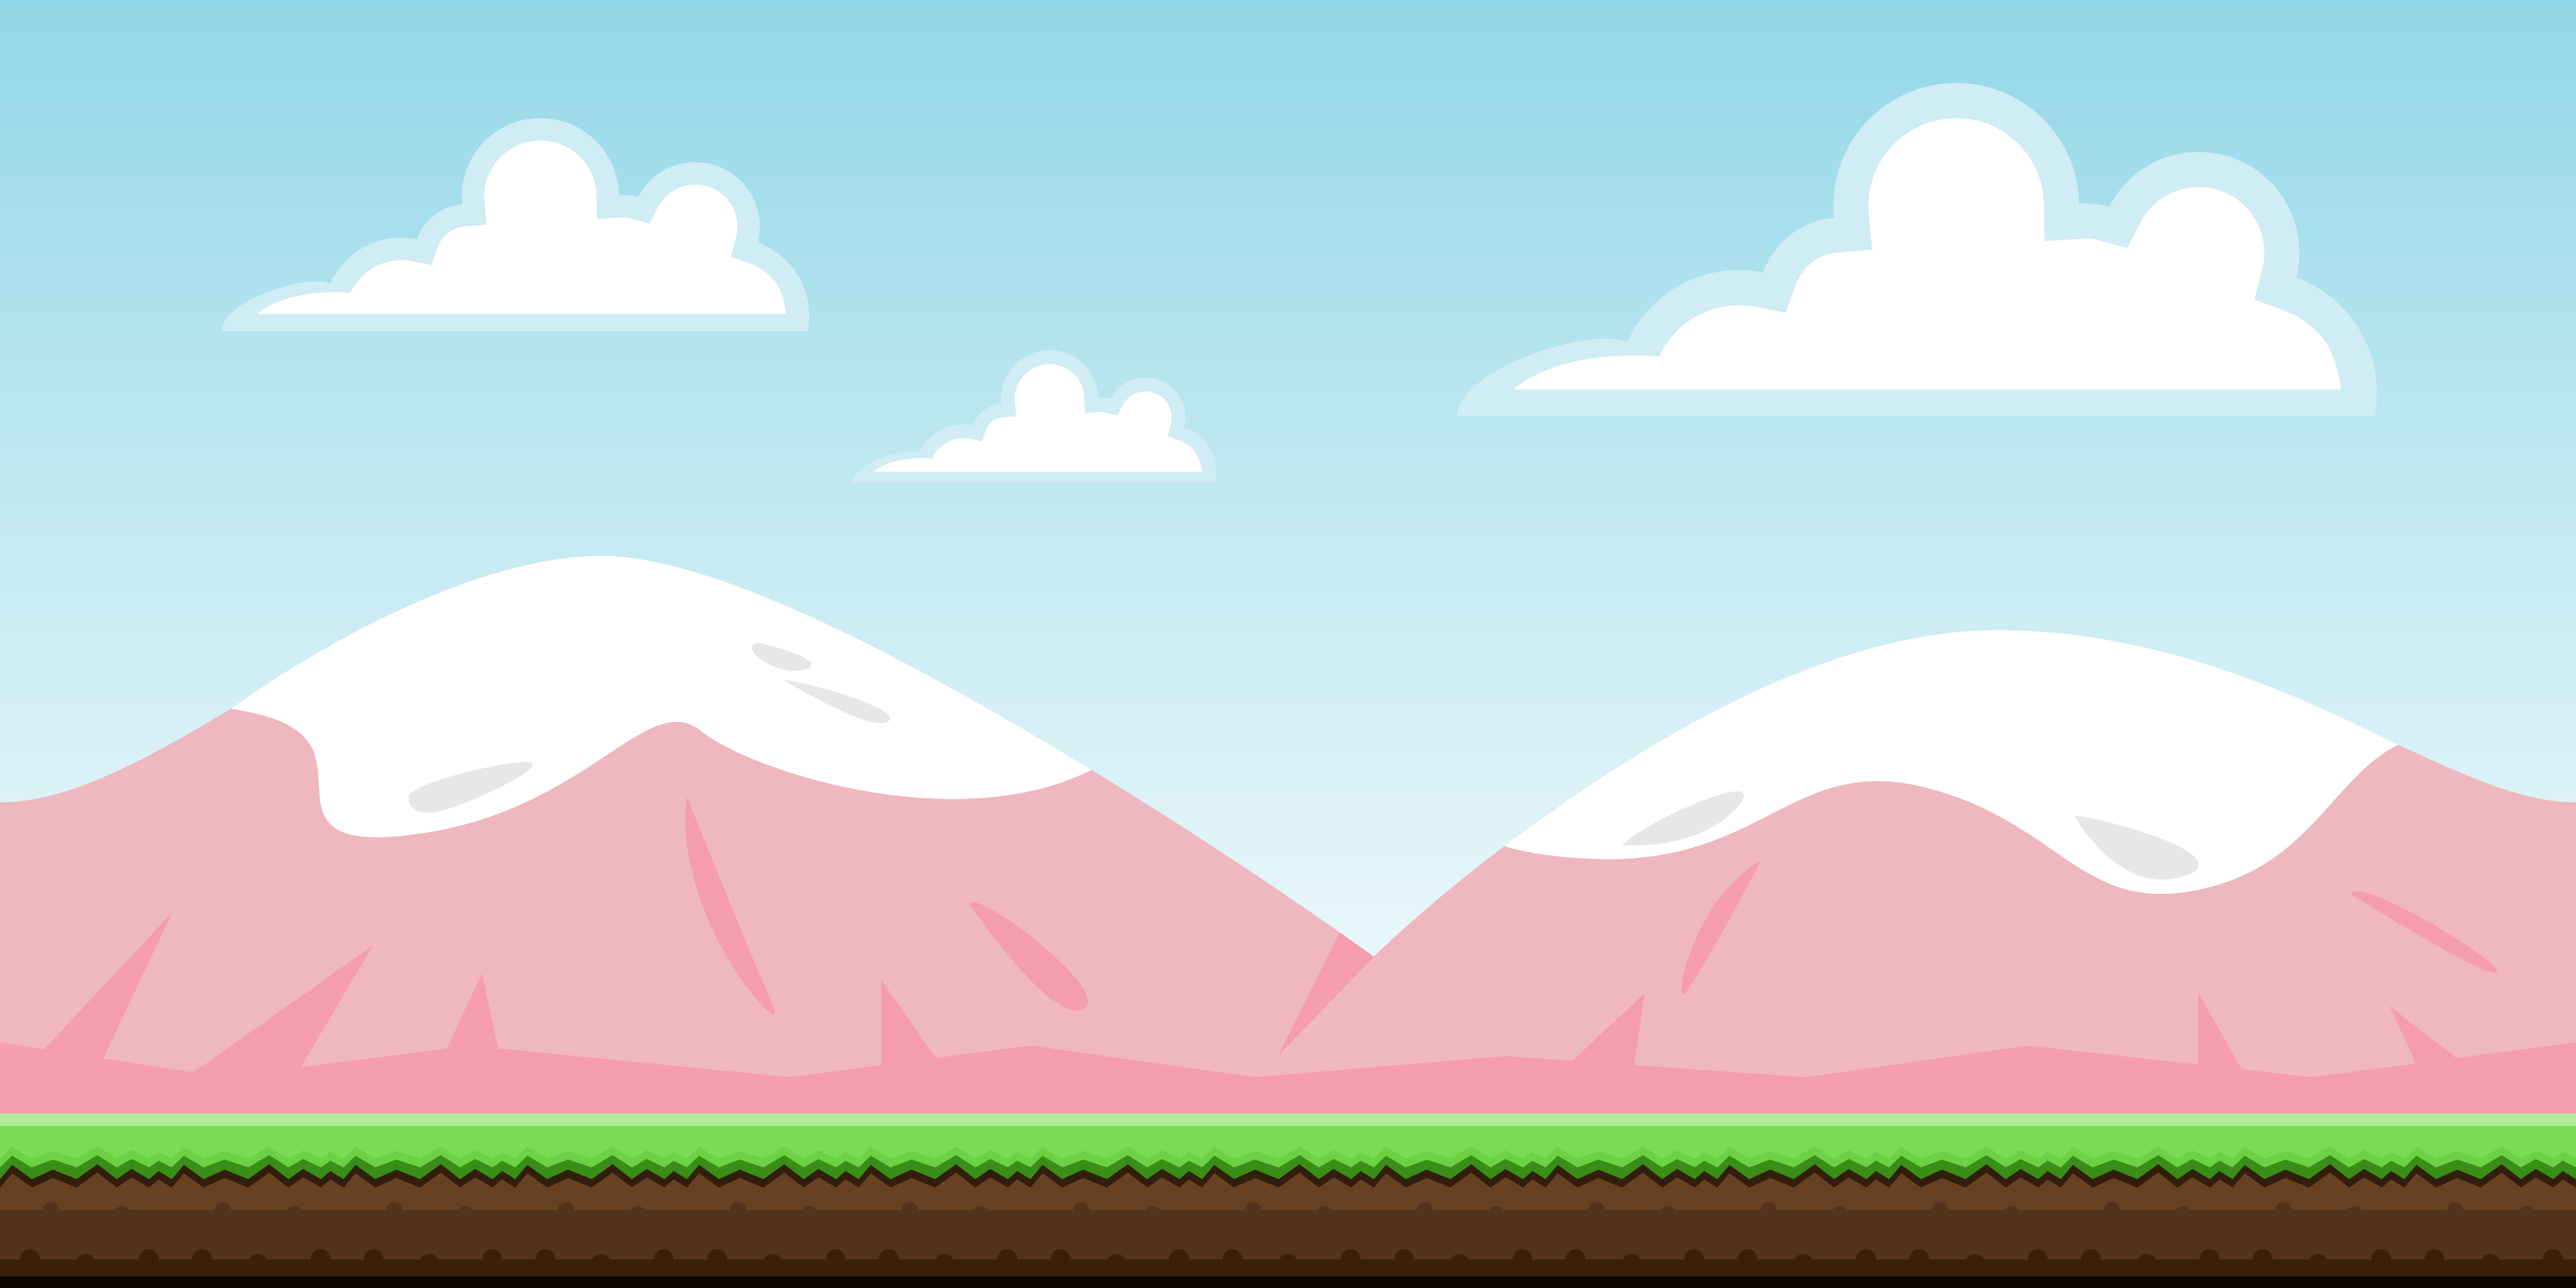
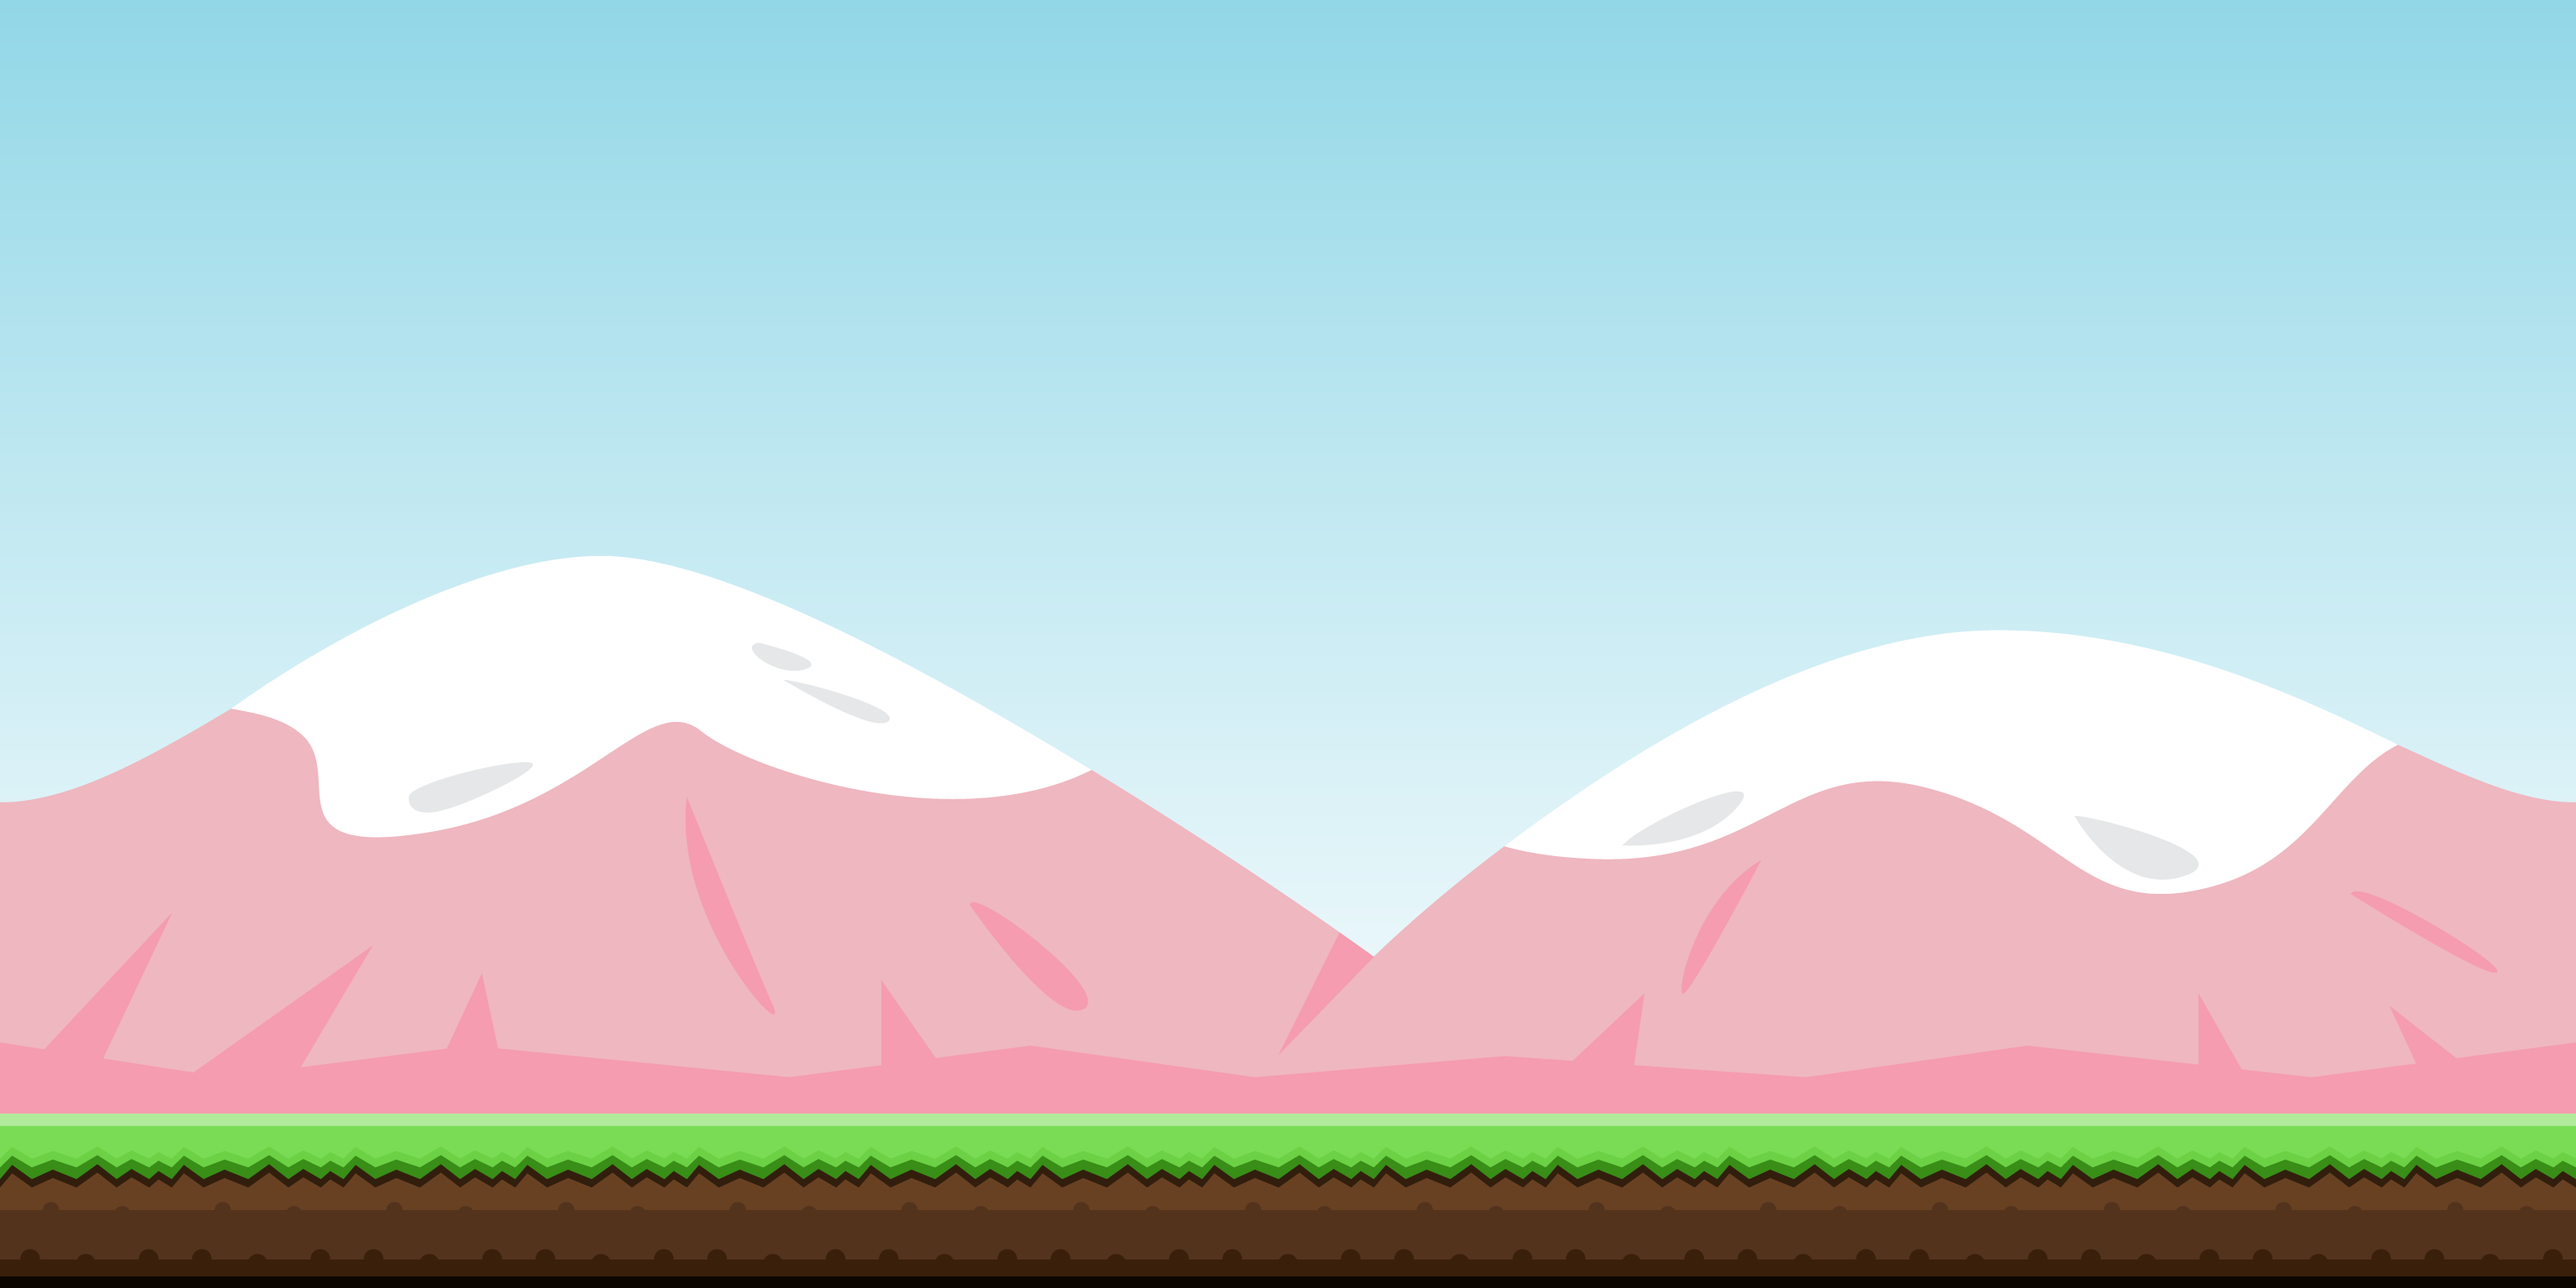
added new floating clouds

Changed region(s): [[0.5625, 0.0625, 0.9375, 0.3125], [0.0938, 0.0938, 0.3125, 0.2812], [0.3438, 0.2812, 0.4688, 0.375]]

diff --git a/css/style.css b/css/style.css
@@ -6,12 +6,49 @@ src: local('../fonts/Wellfleet Regular'), url('../fonts/Wellfleet-Regular.woff')
 }
 
 body {
-    background: url(../img/background.png) bottom no-repeat;
+    background: url(../img/background.png) bottom repeat;
     background-size: cover;
     height: 100vh;
     font-family: 'Wellfleet Regular';
     text-align: center;
     font-size: 18px;
+    animation: animatedBackground 1000s linear infinite;
+}
+
+.cloud {
+    animation: floating-cloud 3s infinite ease;
+    background: url(../img/cloud.png) center no-repeat;
+    background-size: contain;
+    width: 150px;
+    height: 150px;
+    position: absolute;
+    right: 10vw;
+    top: 21vh;
+    z-index: -10;
+}
+
+.big-cloud {
+    animation: floating-cloud 5s infinite ease;
+    background: url(../img/cloud.png) center no-repeat;
+    background-size: contain;
+    width: 250px;
+    height: 250px;
+    position: absolute;
+    left: 12vw;
+    top: 11vh;
+    z-index: -10;
+}
+
+.bigger-cloud {
+    animation: floating-cloud 8s infinite ease;
+    background: url(../img/cloud.png) center no-repeat;
+    background-size: contain;
+    width: 300px;
+    height: 300px;
+    position: absolute;
+    left: 63vw;
+    top: -60px;
+    z-index: -10;
 }
 
 main {
@@ -91,6 +128,7 @@ progress::-webkit-progress-bar {
 
 progress::-webkit-progress-value {
     background: #efb7c0;
+    animation: loading 2s linear infinite;
 }
 
 progress[value] {
@@ -245,14 +283,13 @@ input[disabled] {
     color: #cccccc;
     text-decoration: none;
     margin: 0 10px;
-    animation: float 6s ease-in-out infinite;
-    background: rgb(255,255,255,0.8);
+    background: rgb(255,255,255);
     width: 150px;
     height: 150px;
     border-radius: 50%;
     position: absolute;
     right: 0;
-    bottom: 0;
+    top: 30vh;
     color: #000000;
 }
 
@@ -263,6 +300,33 @@ input[disabled] {
 }
 
 /* +++ KEY FRAME ANIMATIONS +++ */
+
+@keyframes floating-cloud {
+ 0% {
+    transform: translateY(0);
+    -webkit-transform: translateY(0);
+  }
+
+  50% {
+    transform: translateY(1rem);
+    -webkit-transform: translateY(1rem);
+  }
+
+  100% {
+    transform: translateY(0);
+    -webkit-transform: translateY(0);
+  }
+}
+
+@keyframes animatedBackground {
+  from {
+    background-position: 0 0;
+  }
+/*use negative width if you want it to flow right to left else and positive for left to right*/
+  to {
+    background-position: -10000px 0;
+  }
+}
 
 @keyframes animated-text {
     from {
@@ -300,15 +364,9 @@ input[disabled] {
   }
 }
 
-@keyframes float {
-    0% {
-        transform: translatey(0px);
-    }
-    50% {
-        transform: translatey(-20px);
-    }
+@keyframes loading {
     100% {
-        transform: translatey(0px);
+        width: 100%;
     }
 }
 

diff --git a/index.html b/index.html
@@ -28,10 +28,13 @@
         </div>
     </div>
 
+    <div class="cloud"> </div>
+    <div class="big-cloud"> </div>
+    <div class="bigger-cloud"> </div>
+
     <!-- main content -->
     <main class="container">
         <header>Rachelle's Rapid Race</header>
-
         <!-- instructions -->
         <div class="instructions">
             Lorem ipsum dolor sit amet, consectetur adipisicing elit, sed do eiusmod tempor incididunt ut labore et dolore magna aliqua. Ut enim ad minim veniam.<br><br>
@@ -69,7 +72,6 @@
             </div>
         </div>
     </main>
-
 
 </body>
 <script src="js/words.js" type="text/javascript"></script>
